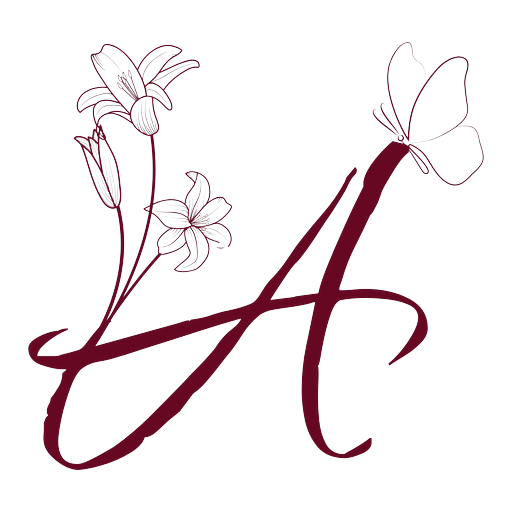
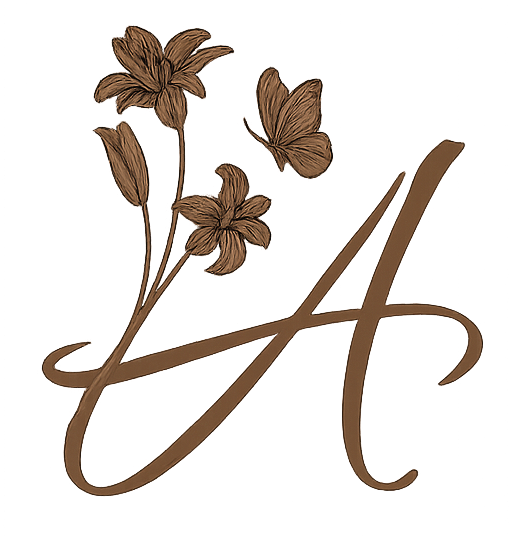
adding in design improvements

diff --git a/src/index.css b/src/index.css
@@ -3,14 +3,14 @@
 :root {
   --cream: #f5f0e8;
   --warm-white: #faf8f4;
-  --brand: #650c22;
-  --dark: #650c22;
-  --charcoal: #650c22;
-  --mid: #8b4c5c;
-  --light-mid: #c7a6ae;
-  --gold: #650c22;
-  --gold-light: #ead8dd;
-  --border: rgba(101, 12, 34, 0.28);
+  --brand: #050505;
+  --dark: #050505;
+  --charcoal: #161616;
+  --mid: #3b3324;
+  --light-mid: #d6c28a;
+  --gold: #b8860b;
+  --gold-light: #efe3c2;
+  --border: rgba(184, 134, 11, 0.32);
   --serif: 'Cormorant Garamond', Georgia, serif;
   --sans: 'Jost', sans-serif;
 }
@@ -116,7 +116,7 @@ nav {
   margin-bottom: 0.5rem;
 }
 
-.hero-title em { font-style: italic; color: var(--brand); }
+.hero-title em { font-style: italic; color: var(--gold); }
 
 .hero-subtitle {
   font-family: var(--serif);
@@ -1193,7 +1193,7 @@ footer a:hover { color: var(--gold); }
     padding: 6.5rem 2.25rem 2.5rem;
     background: #faf8f4;
     border-left: 0;
-    box-shadow: 0 20px 60px rgba(101, 12, 34, 0.18);
+    box-shadow: 0 20px 60px rgba(5, 5, 5, 0.16);
     overflow-y: auto;
     transform: translateX(100%);
     transition: transform 0.3s ease;
@@ -1231,7 +1231,7 @@ footer a:hover { color: var(--gold); }
     position: fixed;
     inset: 0;
     z-index: 110;
-    background: rgba(101, 12, 34, 0.22);
+    background: rgba(5, 5, 5, 0.22);
     border: 0;
     opacity: 0;
     pointer-events: none;